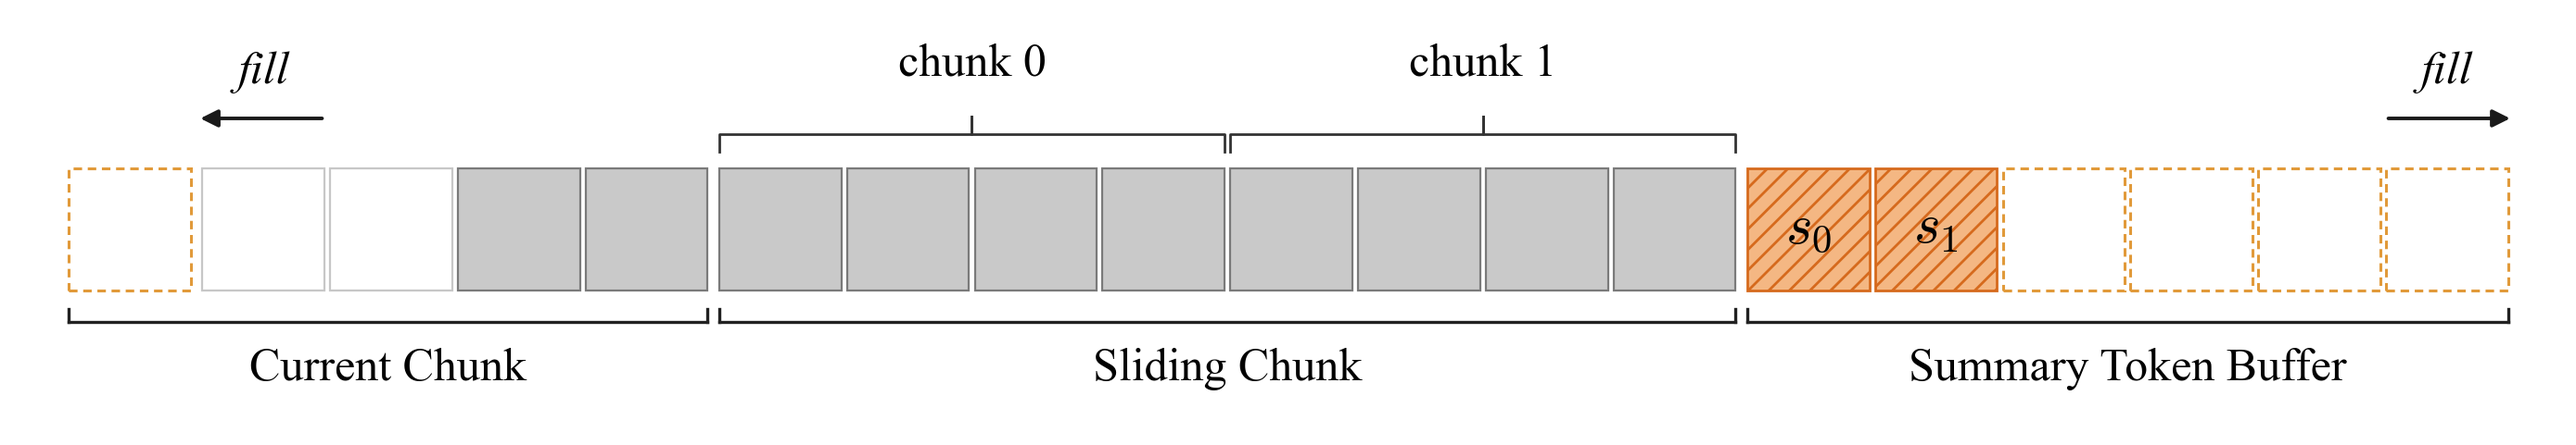
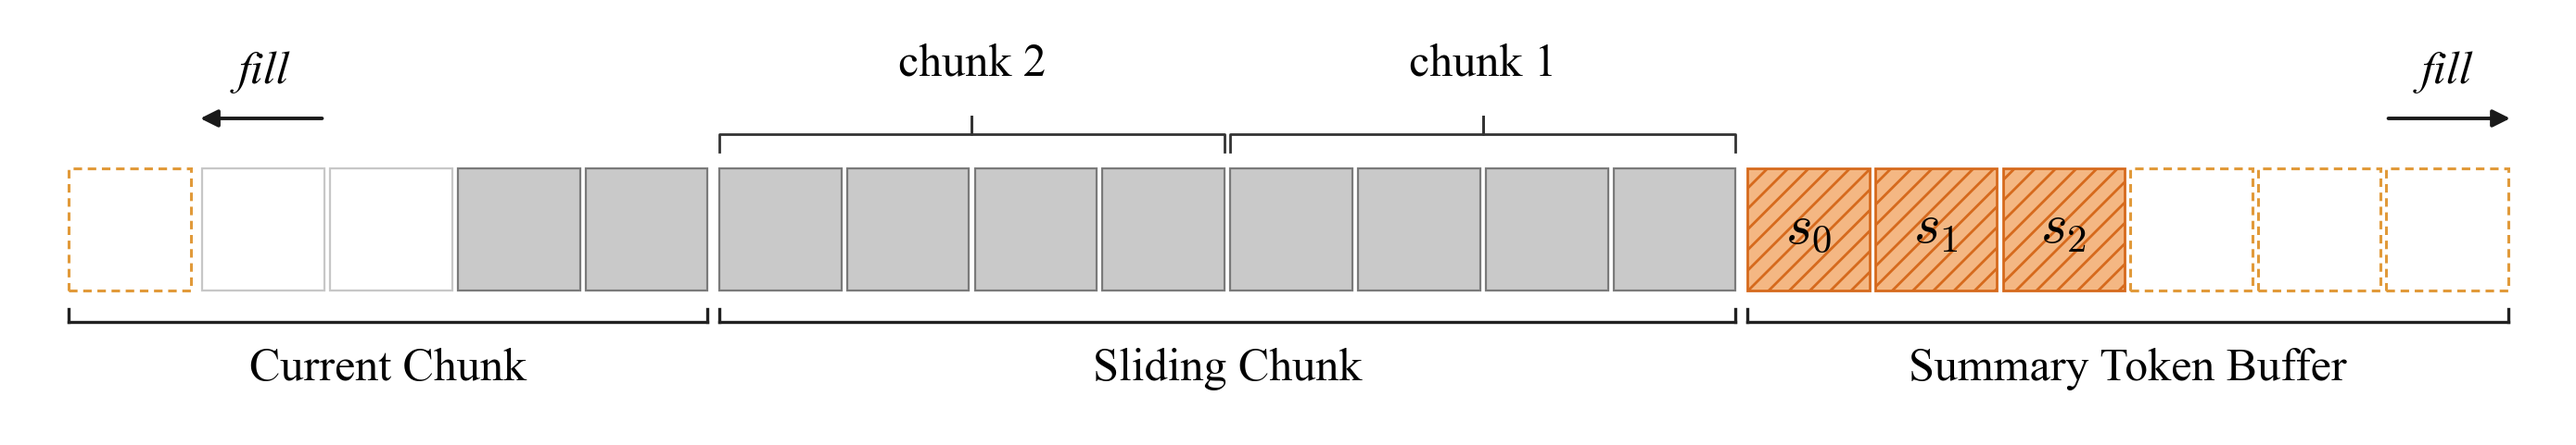
update readme

Changed region(s): [[0.7737, 0.3742, 0.8356, 0.6549]]

diff --git a/README_zh.md b/README_zh.md
@@ -7,7 +7,7 @@
     <a href="#-引用">
         <img alt="Paper" src="https://img.shields.io/badge/Paper-Technical%20Report-b31b1b?logo=arxiv" />
     </a>
-    <a href="https://github.com/Kuaishou-OneRec">
+    <a href="https://github.com/Kuaishou-OneRec/KSA">
         <img alt="GitHub" src="https://img.shields.io/badge/GitHub-Kuaishou--OneRec-black?logo=github" />
     </a>
     <a href="#-许可证">
@@ -22,14 +22,14 @@
 
 ## 📖 简介
 
-**Kwai Summary Attention（KSA）** 是一种高效注意力机制，通过在固定 chunk 边界插入少量 *可学习 Summary Token* 把历史上下文压缩成紧凑状态。相比 GQA/MLA 仍保留每 token 一份 KV cache，以及 SWA/线性注意力完全丢弃或有损压缩远距离历史，KSA 选择一条 **中间路线**：KV cache 以语义级压缩比 R 按 **O(N/R)** 缩放，用少量显存换取 *完整、可回溯、可解释* 的长程依赖。
+**Kwai Summary Attention（KSA）** 是一种高效注意力机制，在固定 chunk 边界插入少量 *可学习 Summary Token*，把历史上下文压缩到一组紧凑的状态里。GQA/MLA 会保留每个 token 的 KV cache，SWA / 线性注意力则直接丢弃或有损压缩远端历史；KSA 走的是 **中间路线** —— KV cache 以语义级压缩比 R 按 **O(N/R)** 规模增长，用少量显存换来 *完整、可回溯、可解释* 的长程依赖。
 
 本仓库提供：
 
 - **Muse** 训练框架与 Qwen3 + Summary Attention 模型实现。
 - 训练 / prefill 阶段的块稀疏 **kernel**（已打包为 wheel）。
 - 解码阶段的 **ring-buffer KV cache**，以 HuggingFace `trust_remote_code` 模板形式发布。
-- 一份把 Qwen3-1.6B 基座从 8k → 32k → 64k → 128k 渐进式训到位的 **端到端 pretraining recipe**。
+- 一份把 Qwen3-1.9B 基座从 8k → 32k → 64k → 128k 渐进式扩展的 **端到端 pretraining recipe**。
 - DCP → HuggingFace safetensors 的 **权重转换脚本** 与推理自测脚本。
 
 <p align="center"><img src="./assets/figures/mainmodel.png" width="80%" alt="KSA 混合架构：Summary Token 与 Text Token 交织,Summary Attention 层与 Full Attention 层按 3:1 比例堆叠。" /></p>
@@ -56,7 +56,7 @@
 | :------------ | :---------- | :----- | :------ | :-------------------- | :---- |
 | KSA-4B (CPT)  | Qwen3-4B    | 4B     | 128k    | Continual Pretraining | *TBD* |
 
-1.6B *from-scratch* 配置只作为可复现的训练 recipe 提供,不会发布对应权重。
+1.9B *from-scratch* 配置只作为可复现的训练 recipe 提供,不会发布对应权重。
 
 ## 🏗 方法与架构
 
@@ -87,15 +87,15 @@ scratch / current chunk / sliding ring / summary buffer 都是同一块物理 te
 
 1. **Attention 蒸馏** —— 用 Full-Attention teacher warm-up Summary Attention 参数。
 2. **参数退火** —— 解冻全模型联合优化。
-3. **长度扩展** —— 放大 `max_position_embeddings`,调整 RoPE base 继续训练。
+3. **长度扩展** —— 扩大 `max_position_embeddings`，调整 RoPE base 后继续训练。
 
 每阶段具体超参见 [`examples/pretrain/README.md`](examples/pretrain/README.md)。
 
-### 发布版模型配置
+### 发布模型配置
 
-本次发布包含两套 recipe:1.6B hybrid 从零训练(仅配方,不发布权重)、以及 4B 连续预训练版本。
+本次发布包含两套 recipe：1.9B hybrid 从零训练（仅配方，不发布权重），以及 4B Continual Pretraining 版本。
 
-| 配置项                         | From Scratch (1.6B)  | Continual Pretraining (4B) |
+| 配置项                         | From Scratch (1.9B)  | Continual Pretraining (4B) |
 | :----------------------------- | :------------------- | :------------------------- |
 | 层数                           | 24                   | 36                         |
 | Hidden size                    | 2048                 | 2560                       |
@@ -107,7 +107,7 @@ scratch / current chunk / sliding ring / summary buffer 都是同一块物理 te
 | Sliding chunk number           | 128                  | 128                        |
 | Tied embeddings                | False                | True                       |
 
-配置文件位于 [`examples/pretrain/model_config/model_config_1b6_hybrid.json`](examples/pretrain/model_config/model_config_1b6_hybrid.json),通过 `muse/models/` 中注册的 `Qwen3SummaryAttentionConfig` / `Qwen3SummaryModel` 加载。
+配置文件位于 [`examples/pretrain/model_config/model_config_1b9_hybrid.json`](examples/pretrain/model_config/model_config_1b9_hybrid.json),通过 `muse/models/` 中注册的 `Qwen3SummaryAttentionConfig` / `Qwen3SummaryModel` 加载。
 
 ## 📈 实验结果
 
@@ -161,7 +161,7 @@ bash examples/pretrain/run_pretrain_128k.sh   # 4. 扩到 128k
 
 ```bash
 bash examples/pretrain/convert/convert_muse_to_hf.sh \
-     /path/to/muse_outputs/1b6_sa_hybrid_128k \
+     /path/to/muse_outputs/1b9_sa_hybrid_128k \
      global_step5000 \
      examples/pretrain/hf_template
 ```
@@ -194,7 +194,7 @@ python examples/inference/inference.py \
 │   └── flash_attn_cute-*.whl       # kernel 依赖的 CuTe FlashAttention 构建
 ├── examples/
 │   ├── pretrain/                   # 8k → 128k 渐进式 recipe
-│   │   ├── model_config/           # model_config_1b6_hybrid.json
+│   │   ├── model_config/           # model_config_1b9_hybrid.json
 │   │   ├── dataset_config/         # 各 seq len 的 mmap 数据集描述
 │   │   ├── run_pretrain_{8,32,64,128}k.sh
 │   │   ├── convert/                # DCP → HF safetensors
@@ -211,8 +211,8 @@ python examples/inference/inference.py \
 正在推进:
 
 - [ ] 技术报告上 arXiv。
-- [ ] Hugging Face 发布 1.6B 预训练 checkpoint。
-- [ ] 放出 4B 连续预训练 recipe 与 checkpoint。
+- [ ] Hugging Face 发布 1.9B 预训练 checkpoint。
+- [ ] 放出 4B Continual Pretraining recipe 与 checkpoint。
 - [ ] RULER / NIAH / LongBench v2 复现脚本。
 - [ ] 内置 ring-buffer KV cache 的参考推理/Serving 栈。
 - [ ] 更多消融与教程。
@@ -229,7 +229,7 @@ python examples/inference/inference.py \
   author      = {OneRec Team},
   year        = {2026},
   institution = {Kuaishou Technology},
-  url         = {https://github.com/Kuaishou-OneRec}
+  url         = {https://github.com/Kuaishou-OneRec/KSA}
 }
 ```
 
@@ -243,7 +243,7 @@ KSA 构建在开源生态之上。感谢:
 
 - **Qwen3** —— 提供 KSA 扩展所依赖的基座架构与 tokenizer。
 - **FlashAttention** —— 我们块稀疏 kernel 背后的 dense attention 原语。
-- **HuggingFace Transformers** —— 让 `trust_remote_code` 部署无缝衔接的模型 / tokenizer / generation 抽象。
-- **PyTorch 分布式训练** —— FSDP、DCP、通信原语让大规模预训练可行。
+- **HuggingFace Transformers** —— 模型 / tokenizer / generation 抽象让 `trust_remote_code` 部署无缝衔接。
+- **PyTorch 分布式训练** —— FSDP、DCP 与通信原语是大规模预训练的基石。
 
 由衷感谢这些项目的出色工作。

diff --git a/README.md b/README.md
@@ -7,7 +7,7 @@
     <a href="#-citation">
         <img alt="Paper" src="https://img.shields.io/badge/Paper-Technical%20Report-b31b1b?logo=arxiv" />
     </a>
-    <a href="https://github.com/Kuaishou-OneRec">
+    <a href="https://github.com/Kuaishou-OneRec/KSA">
         <img alt="GitHub" src="https://img.shields.io/badge/GitHub-Kuaishou--OneRec-black?logo=github" />
     </a>
     <a href="#-license">
@@ -29,7 +29,7 @@ This repository contains:
 - **Muse** training framework with the Qwen3 + Summary Attention model.
 - A block-sparse training / prefill **kernel** for Summary Attention.
 - A ring-buffer **KV cache** implementation for decoding, packaged as a HuggingFace `trust_remote_code` template.
-- A full end-to-end **pretraining recipe** that progressively extends a Qwen3-1.6B base from 8k to 128k context.
+- A full end-to-end **pretraining recipe** that progressively extends a Qwen3-1.9B base from 8k to 128k context.
 - Weight conversion utilities (DCP → HuggingFace safetensors) and an inference sanity-check script.
 
 <p align="center"><img src="./assets/figures/mainmodel.png" width="80%" alt="KSA hybrid architecture: summary tokens interleaved with text tokens, with Summary Attention layers and Full Attention layers in a 3:1 hybrid ratio." /></p>
@@ -56,7 +56,7 @@ This repository contains:
 | :------------ | :---------- | :--------- | :------ | :-------------------- | :---- |
 | KSA-4B (CPT)  | Qwen3-4B    | 4B         | 128k    | Continual pretraining | *TBD* |
 
-The 1.6B *from-scratch* configuration is provided as a reproducible recipe only; no 1.6B weights will be released.
+The 1.9B *from-scratch* configuration is provided as a reproducible recipe only; no 1.9B weights will be released.
 
 ## 🏗 Method & Architecture
 
@@ -93,9 +93,9 @@ See [`examples/pretrain/README.md`](examples/pretrain/README.md) for per-stage h
 
 ### Released model configuration
 
-The release ships two recipes: a 1.6B hybrid model trained from scratch (recipe only — no weights released) and a 4B continual-pretraining variant.
+The release ships two recipes: a 1.9B hybrid model trained from scratch (recipe only — no weights released) and a 4B continual-pretraining variant.
 
-| Configuration                 | From Scratch (1.6B) | Continual Pretraining (4B) |
+| Configuration                 | From Scratch (1.9B) | Continual Pretraining (4B) |
 | :---------------------------- | :------------------ | :------------------------- |
 | Number of layers              | 24                  | 36                         |
 | Hidden size                   | 2048                | 2560                       |
@@ -107,7 +107,7 @@ The release ships two recipes: a 1.6B hybrid model trained from scratch (recipe 
 | Sliding chunk number          | 128                 | 128                        |
 | Tied embeddings               | False               | True                       |
 
-The config lives at [`examples/pretrain/model_config/model_config_1b6_hybrid.json`](examples/pretrain/model_config/model_config_1b6_hybrid.json) and is loaded via the `Qwen3SummaryAttentionConfig` / `Qwen3SummaryModel` registered in `muse/models/`.
+The config lives at [`examples/pretrain/model_config/model_config_1b9_hybrid.json`](examples/pretrain/model_config/model_config_1b9_hybrid.json) and is loaded via the `Qwen3SummaryAttentionConfig` / `Qwen3SummaryModel` registered in `muse/models/`.
 
 ## 📈 Performance
 
@@ -161,7 +161,7 @@ Edit `CHECKPOINT_DIR` / `OUTPUT_DIR` at the top of each script to match your sto
 
 ```bash
 bash examples/pretrain/convert/convert_muse_to_hf.sh \
-     /path/to/muse_outputs/1b6_sa_hybrid_128k \
+     /path/to/muse_outputs/1b9_sa_hybrid_128k \
      global_step5000 \
      examples/pretrain/hf_template
 ```
@@ -194,7 +194,7 @@ The inference path uses HuggingFace's `AutoModelForCausalLM` with `trust_remote_
 │   └── flash_attn_cute-*.whl       # CuTe-based FlashAttention build used by the kernel
 ├── examples/
 │   ├── pretrain/                   # Progressive 8k→128k recipe
-│   │   ├── model_config/           # model_config_1b6_hybrid.json
+│   │   ├── model_config/           # model_config_1b9_hybrid.json
 │   │   ├── dataset_config/         # per-seq-length mmap dataset specs
 │   │   ├── run_pretrain_{8,32,64,128}k.sh
 │   │   ├── convert/                # DCP → HF safetensors
@@ -211,7 +211,7 @@ The inference path uses HuggingFace's `AutoModelForCausalLM` with `trust_remote_
 We are actively working on:
 
 - [ ] Technical report on arXiv.
-- [ ] Publish pretrained 1.6B checkpoints on Hugging Face.
+- [ ] Publish pretrained 1.9B checkpoints on Hugging Face.
 - [ ] Release the 4B continual-pretraining recipe and checkpoint.
 - [ ] Expanded evaluation scripts for RULER / NIAH / LongBench v2 reproduction.
 - [ ] A reference serving stack with the ring-buffer KV cache.
@@ -229,7 +229,7 @@ Contributions are welcome — feel free to open an issue or PR.
   author      = {OneRec Team},
   year        = {2026},
   institution = {Kuaishou Technology},
-  url         = {https://github.com/Kuaishou-OneRec}
+  url         = {https://github.com/Kuaishou-OneRec/KSA}
 }
 ```
 

diff --git a/examples/pretrain/README.md b/examples/pretrain/README.md
@@ -1,6 +1,6 @@
 # Pretrain
 
-Progressive-length pretraining pipeline for Qwen3-1.6B Summary Attention
+Progressive-length pretraining pipeline for Qwen3-1.9B Summary Attention
 (hybrid variant). Train from scratch at 8k, then extend context to 32k → 64k
 → 128k, each stage resuming weights from the previous one.
 
@@ -9,7 +9,7 @@ Progressive-length pretraining pipeline for Qwen3-1.6B Summary Attention
 ```
 examples/pretrain/
 ├── model_config/                       # model architecture JSON
-│   └── model_config_1b6_hybrid.json
+│   └── model_config_1b9_hybrid.json
 ├── dataset_config/                     # per-seq-length dataset JSONs
 │   ├── pretrain_kai_mmap_8k.json
 │   ├── pretrain_kai_mmap_32k.json
@@ -30,23 +30,23 @@ examples/pretrain/
 ## Pipeline
 
 ```
-  run_pretrain_8k.sh   →  1b6_sa_hybrid_8k/   (from scratch)
+  run_pretrain_8k.sh   →  1b9_sa_hybrid_8k/   (from scratch)
           │
           ▼  resume weights
-  run_pretrain_32k.sh  →  1b6_sa_hybrid_32k/
+  run_pretrain_32k.sh  →  1b9_sa_hybrid_32k/
           │
           ▼  resume weights
-  run_pretrain_64k.sh  →  1b6_sa_hybrid_64k/
+  run_pretrain_64k.sh  →  1b9_sa_hybrid_64k/
           │
           ▼  resume weights
-  run_pretrain_128k.sh →  1b6_sa_hybrid_128k/
+  run_pretrain_128k.sh →  1b9_sa_hybrid_128k/
           │
           ▼  convert
   global_stepN/hf/     (HF-inferable directory)
 ```
 
 Each stage's output dir name matches the pattern
-`1b6_sa_hybrid_{8,32,64,128}k`. The next stage's `CHECKPOINT_DIR` is set to
+`1b9_sa_hybrid_{8,32,64,128}k`. The next stage's `CHECKPOINT_DIR` is set to
 the previous stage's `OUTPUT_DIR` by default — edit the paths at the top of
 each script if you store outputs elsewhere.
 
@@ -79,7 +79,7 @@ If a 128k run dies halfway:
 
 ```bash
 # edit run_pretrain_128k.sh
-CHECKPOINT_DIR=/.../muse_outputs/1b6_sa_hybrid_128k   # point at THIS stage's output
+CHECKPOINT_DIR=/.../muse_outputs/1b9_sa_hybrid_128k   # point at THIS stage's output
 RESUME_DATALOADER=1                                    # resume weights + dataloader
 # then relaunch
 bash examples/pretrain/run_pretrain_128k.sh
@@ -92,7 +92,7 @@ alongside each saved checkpoint and replayed when `RESUME_DATALOADER=1`.
 
 ```bash
 bash examples/pretrain/convert/convert_muse_to_hf.sh \
-    /path/to/muse_outputs/1b6_sa_hybrid_8k \
+    /path/to/muse_outputs/1b9_sa_hybrid_8k \
     global_step5000 \
     examples/pretrain/hf_template
 ```

diff --git a/examples/pretrain/hf_template/README.md b/examples/pretrain/hf_template/README.md
@@ -22,7 +22,7 @@ verbatim into `<OUTPUT_DIR>/<STEP>/hf/` by the convert script.
 
 ```bash
 bash examples/pretrain/convert/convert_muse_to_hf.sh \
-    /path/to/muse_outputs/1b6_sa_hybrid_8k \
+    /path/to/muse_outputs/1b9_sa_hybrid_8k \
     global_step5000 \
     examples/pretrain/hf_template
 ```
